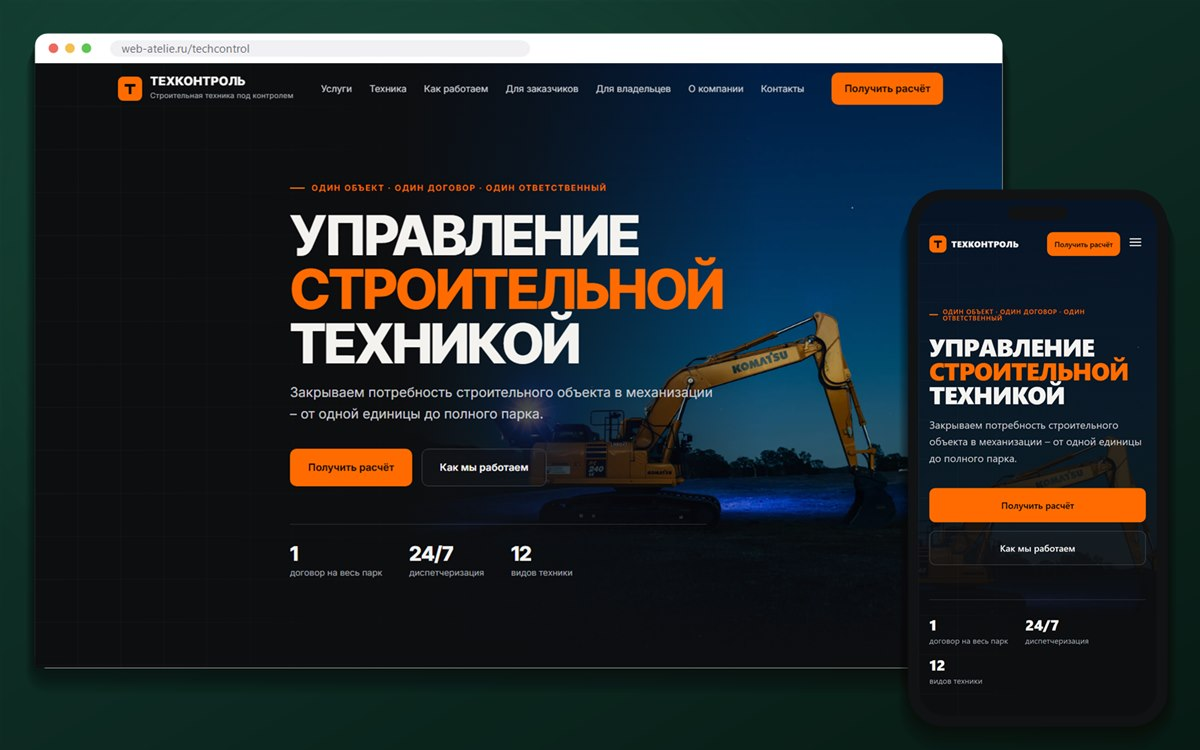
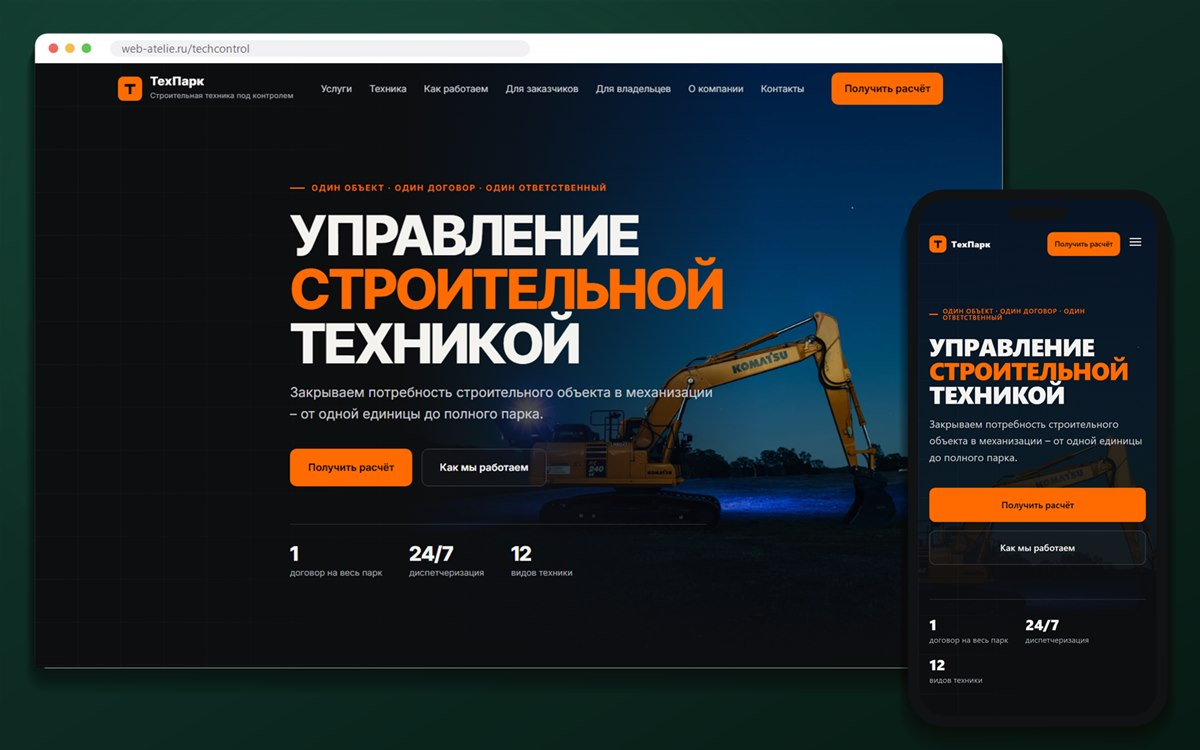
Главная: ТЕХКОНТРОЛЬ → ТехПарк

diff --git a/index.html b/index.html
@@ -189,7 +189,7 @@ const W=[
  ['coworking','Коворкинг «Этаж»','Онлайн-бронирование мест по часам'],
  ['avto-iz-kitaya','«КитайМост»','Каталог авто из Китая с расчётом цены'],
  ['ugaday-pesnyu','«Угадай песню»','Музыкальная игра, 4 режима'],
- ['techcontrol','«ТЕХКОНТРОЛЬ»','Строительная техника под контролем']
+ ['techcontrol','«ТехПарк»','Строительная техника под контролем']
 ];
 document.getElementById('g').innerHTML=W.map(([r,n,d])=>`<a class="card rv" href="/${r}/" target="_blank" rel="noopener"><div class="shot"><img src="img/${r}.jpg" alt="${n}" loading="lazy"></div><div class="t"><h3>${n}</h3><p>${d}</p><span class="go">Открыть сайт →</span></div></a>`).join('');
 const io=new IntersectionObserver(e=>e.forEach(x=>{if(x.isIntersecting){x.target.classList.add('on');io.unobserve(x.target)}}),{threshold:.12});

diff --git a/index.template.html b/index.template.html
@@ -189,7 +189,7 @@ const W=[
  ['coworking','Коворкинг «Этаж»','Онлайн-бронирование мест по часам'],
  ['avto-iz-kitaya','«КитайМост»','Каталог авто из Китая с расчётом цены'],
  ['ugaday-pesnyu','«Угадай песню»','Музыкальная игра, 4 режима'],
- ['techcontrol','«ТЕХКОНТРОЛЬ»','Строительная техника под контролем']
+ ['techcontrol','«ТехПарк»','Строительная техника под контролем']
 ];
 document.getElementById('g').innerHTML=W.map(([r,n,d])=>`<a class="card rv" href="/${r}/" target="_blank" rel="noopener"><div class="shot"><img src="img/${r}.jpg" alt="${n}" loading="lazy"></div><div class="t"><h3>${n}</h3><p>${d}</p><span class="go">Открыть сайт →</span></div></a>`).join('');
 const io=new IntersectionObserver(e=>e.forEach(x=>{if(x.isIntersecting){x.target.classList.add('on');io.unobserve(x.target)}}),{threshold:.12});
